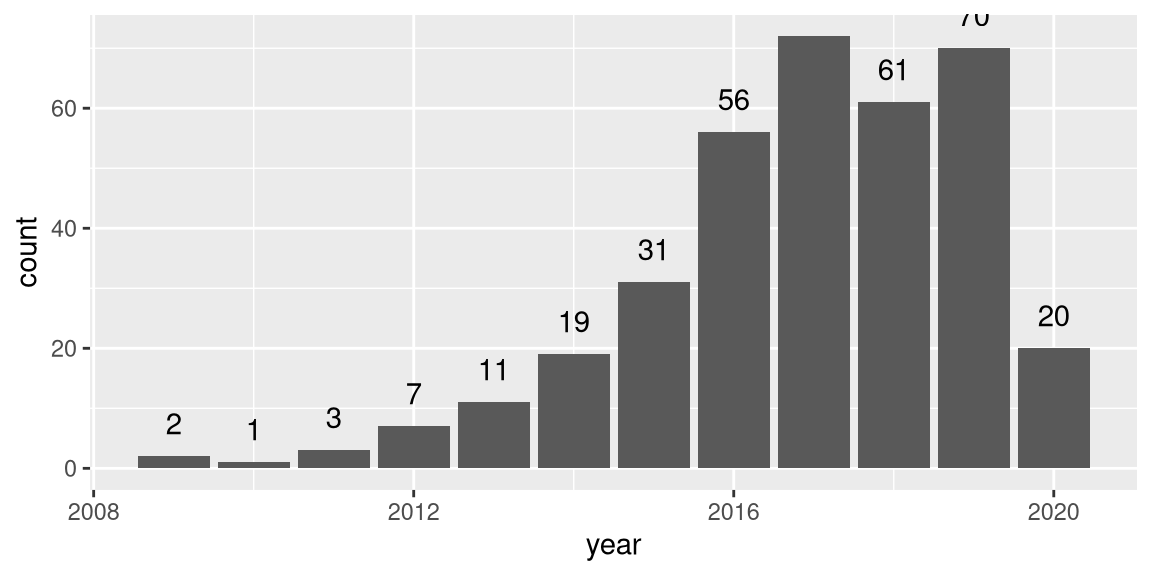
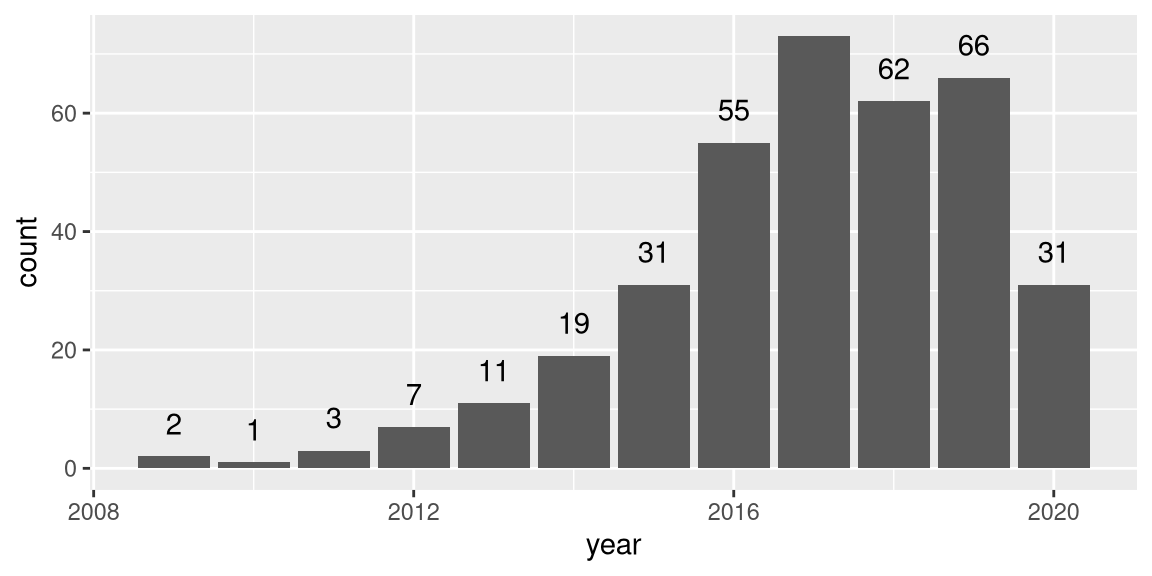
Updated refs

diff --git a/Chris_Oldmeadow_resume.html b/Chris_Oldmeadow_resume.html
@@ -7,7 +7,7 @@
     <meta name="viewport" content="width=device-width, initial-scale=1">
 
     <meta name="author" content="Chris Oldmeadow" />
-    <meta name="date" content="2020-06-10" />
+    <meta name="date" content="2020-07-25" />
     <title>Chris Oldmeadow</title>
 
     
@@ -30,27 +30,27 @@
 <div id="contact" class="section level2">
 <h2>Contact Info</h2>
 <ul>
-<li><i class="fa fa-envelope"></i> <a href="mailto:christopher.oldmeadow@hmri.org.au" class="email">christopher.oldmeadow@hmri.org.au</a></li>
+<li><i class="fa fa-envelope"></i> <a href="mailto:Christopher.oldmeadow@hmri.org.au" class="email">Christopher.oldmeadow@hmri.org.au</a></li>
 <li><i class="fa fa-github"></i> <a href="https://github.com/ChrisOldmeadow">github.com/ChrisOldmeadow</a></li>
 </ul>
 </div>
 <div id="skills" class="section level2">
 <h2>Skills</h2>
 <ul>
-<li><p>Study design | Bayesian statistics | Big data sets | Clincial Trials | Dashboards | visualising data</p></li>
+<li><p>Study design | Bayesian statistics | Big data sets | Clinical Trials | Dashboards | visualising data</p></li>
 <li><p>Highly skilled in R, SAS, Stata, Bash, Perl, Python</p></li>
 </ul>
 </div>
 <div id="impact" class="section level2">
 <h2>Impact</h2>
-<p>total cites: 6907
+<p>total cites: 7264
 H-index: 33
-i10-index: 95</p>
+i10-index: 100</p>
 </div>
 <div id="more-info" class="section level2">
 <h2>More info</h2>
 <p>See full CV at ChrisOldmeadow.github.io/cv for more complete list of positions and publications.</p>
-<p>Last updated on 2020-06-10.</p>
+<p>Last updated on 2020-07-25.</p>
 </div>
 </div>
 <div id="main" class="section level1">
@@ -168,7 +168,7 @@ Genome-wide association study identifies 74 loci associated with educational att
 Nature
 </td>
 <td style="text-align:right;">
-787
+822
 </td>
 </tr>
 <tr>
@@ -185,7 +185,7 @@ GWAS of 126,559 individuals identifies genetic variants associated with educatio
 science
 </td>
 <td style="text-align:right;">
-685
+700
 </td>
 </tr>
 <tr>
@@ -202,7 +202,7 @@ Genetic variants associated with subjective well-being, depressive symptoms, and
 Nature genetics
 </td>
 <td style="text-align:right;">
-546
+563
 </td>
 </tr>
 <tr>
@@ -219,7 +219,7 @@ Genome-wide association analyses identify 18 new loci associated with serum urat
 Nature genetics
 </td>
 <td style="text-align:right;">
-534
+549
 </td>
 </tr>
 <tr>
@@ -236,14 +236,14 @@ Genome-wide association analysis identifies novel blood pressure loci and offers
 Nature genetics
 </td>
 <td style="text-align:right;">
-278
+293
 </td>
 </tr>
 </tbody>
 </table>
 </div>
-<div id="publications-statisstics" class="section level2" data-icon="file">
-<h2>Publications statisstics</h2>
+<div id="publications-statistics" class="section level2" data-icon="file">
+<h2>Publications statistics</h2>
 <p><img src="Chris_Oldmeadow_resume_files/figure-html/unnamed-chunk-3-1.png" width="576" /></p>
 <p><img src="Chris_Oldmeadow_resume_files/figure-html/unnamed-chunk-4-1.png" width="576" /></p>
 </div>
